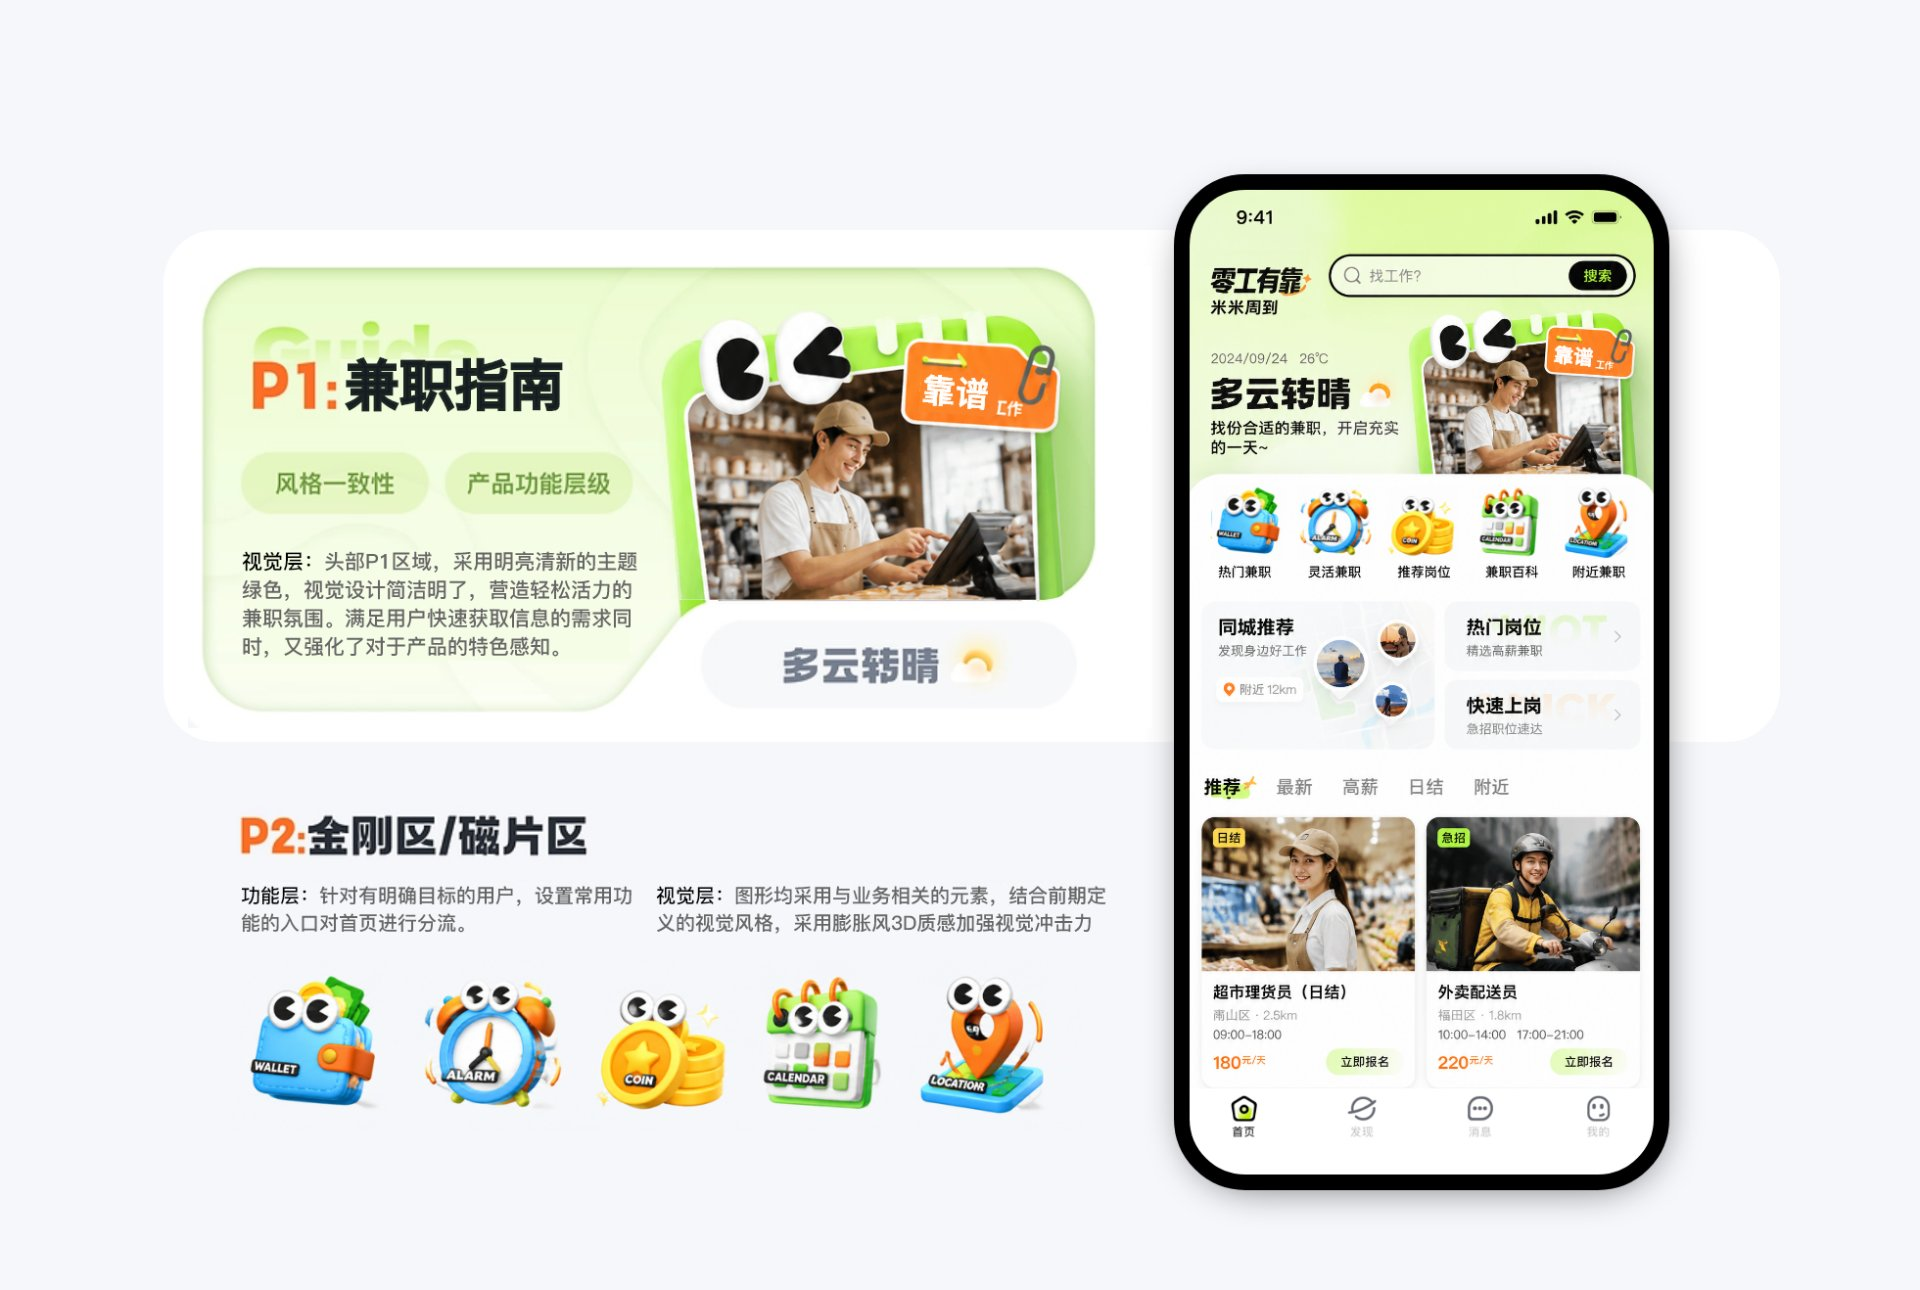
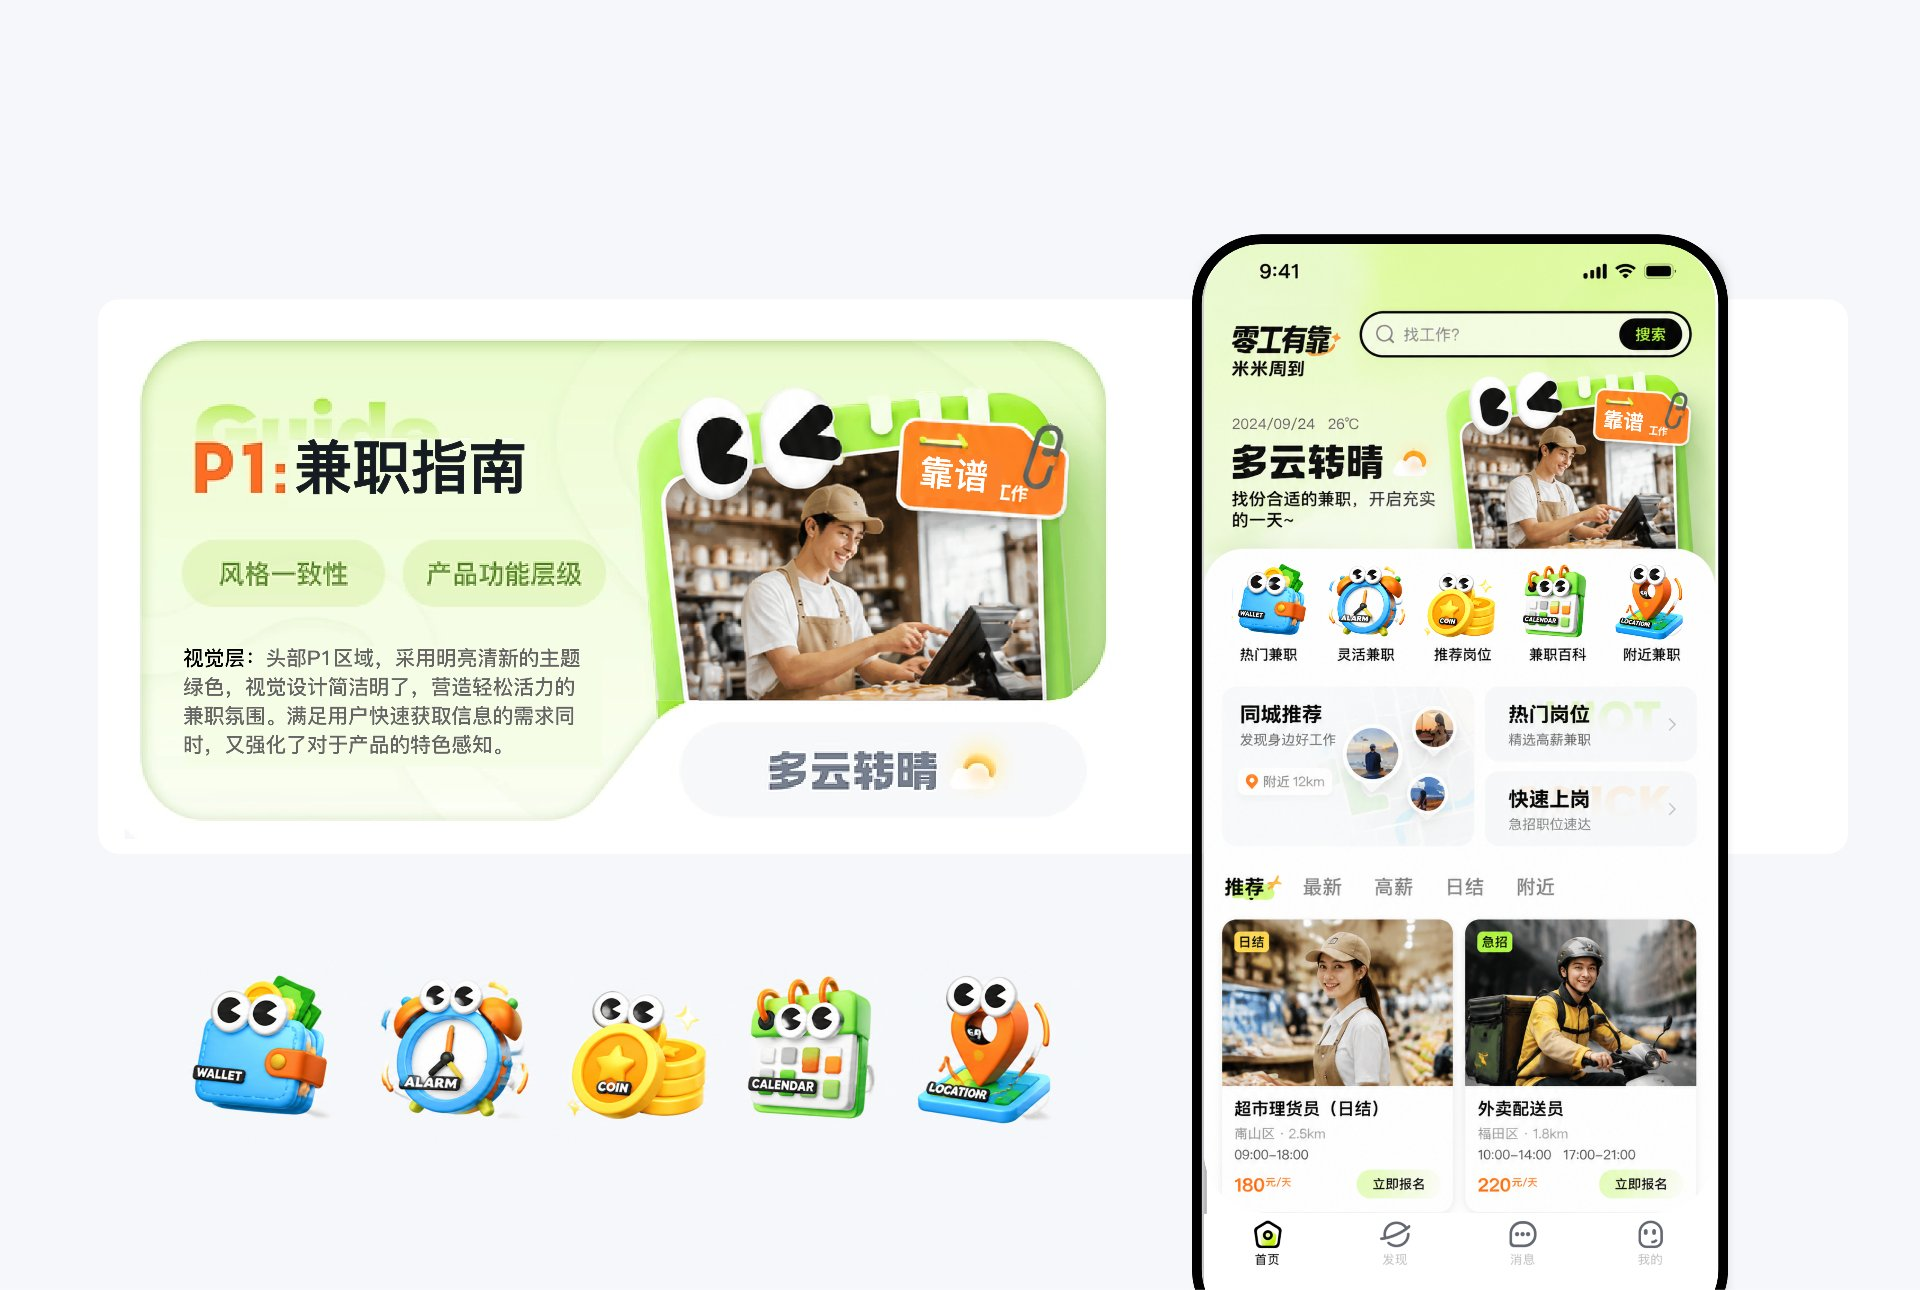
feat: AIGC+零工有靠求职APP二级页面素材全量更新与布局修复
- AIGC二级页面：5张素材更新（ICONS/二级页/运营页/Banner），运营页展示合并模块
- 零工有靠求职APP：4张素材更新，Hero移除重复大图，所有模块统一为标题+文字+大图格式
- 修复图片映射错误，各模块图归位

diff --git a/job-app.html b/job-app.html
@@ -269,11 +269,6 @@
           <dd>iOS / Android<br><span style="color:var(--text-secondary)">Mobile App</span></dd>
         </div>
       </dl>
-
-      <!-- 封面大图 — 设计总览 -->
-      <div class="cs-img-full reveal">
-        <img src="assets/jobapp/case-study.jpg" alt="零工有靠 — 完整 Case Study">
-      </div>
     </div>
   </section>
 
@@ -290,70 +285,51 @@
     </div>
   </section>
 
-  <!-- 首页设计：P1 + P2 -->
+  <!-- 首页设计：P1 + P2 + P3 -->
   <section class="sec" id="home-design">
     <div class="container">
       <div class="sec-head reveal">
         <h2 class="sec-title">首页设计</h2>
       </div>
-
-      <div class="point-cards reveal">
-        <div class="point-card">
-          <div class="point-label">P1 — 兼职指南</div>
-          <h4>视觉层</h4>
-          <p>头部 P1 区域采用<strong>明亮清新的主题绿色</strong>，视觉设计简洁明了。营造轻松活泼的兼职氛围，满足用户快速获取信息的刚需，同时强化了对于产品的特色感知。</p>
-        </div>
-        <div class="point-card">
-          <div class="point-label">P1 — 兼职指南</div>
-          <h4>功能层</h4>
-          <p>风格一致性 + 产品功能层级清晰，让新用户一眼理解核心价值。「多云转晴」的天气隐喻暗示找到好工作的美好预期。</p>
-        </div>
-        <div class="point-card">
-          <div class="point-label">P2 — 金刚区 / 磁片区</div>
-          <h4>功能层</h4>
-          <p>针对有明确目标的用户，设置常用功能的入口对首屏进行分流。<strong>视觉层采用与业务相关的元素图标</strong>，结合前瞻定义的视觉风格，采用<strong>萌系能量 3D 质感加强视觉冲击力</strong>。</p>
-        </div>
+      <div class="cs-text reveal">
+        <p>首页采用<strong>P1 兼职指南 → P2 金刚区/磁片区 → P3 双列 Feed 流推荐</strong>的三层信息架构。头部 P1 区域采用<strong>明亮清新的主题绿色</strong>，视觉设计简洁明了，营造轻松活泼的兼职氛围。「多云转晴」的天气隐喻暗示找到好工作的美好预期。</p>
+        <p>针对有明确目标的用户，P2 设置常用功能入口对首屏进行分流。<strong>视觉层采用与业务相关的萌系能量 3D 质感图标</strong>，结合前瞻定义的视觉风格加强视觉冲击力。P3 双列 Feed 流根据用户偏好进行个性化岗位推荐。</p>
+      </div>
+      <div class="cs-img-full reveal">
+        <img src="assets/jobapp/page-register.jpg" alt="首页设计 — P1兼职指南 + P2金刚区 + P3双列Feed流推荐">
       </div>
     </div>
   </section>
 
-  <!-- 岗位报名 -->
+  <!-- 岗位报名 & 发现岗位 -->
   <section class="sec" id="job-register">
     <div class="container">
       <div class="sec-head reveal">
         <h2 class="sec-title">岗位报名</h2>
       </div>
       <div class="cs-text reveal">
-        <p>基于<strong>LBS 地理位置</strong>的岗位发现流程，用户可通过地图视图直观浏览周边工作机会。三屏交互流程覆盖：<strong>定位 → 浏览附近岗位 → 在线报名</strong>，每一步都经过体验优化，降低用户操作门槛。</p>
+        <p>基于<strong>LBS 地理位置</strong>的岗位发现流程，用户可通过地图视图直观浏览周边工作机会。三屏交互流程覆盖：<strong>发现岗位详情 → 查看岗位信息流 → 填写个人意愿报名</strong>，每一步都经过体验优化，降低用户操作门槛。</p>
       </div>
       <div class="cs-img-full reveal">
-        <img src="assets/jobapp/case-study.jpg" alt="岗位报名 — 地图找岗流程">
+        <img src="assets/jobapp/page-home.jpg" alt="岗位报名 — LBS地图找岗 + 发现岗位BASE + 推荐活动流">
       </div>
     </div>
   </section>
 
-  <!-- 发现岗位 & 签到活动 -->
-  <section class="sec" id="discovery">
+  <!-- 签到活动 -->
+  <section class="sec" id="signin">
     <div class="container">
       <div class="sec-head reveal">
-        <h2 class="sec-title">发现岗位 &amp; 签到活动</h2>
+        <h2 class="sec-title">签到活动</h2>
       </div>
-      <div class="point-cards reveal">
-        <div class="point-card">
-          <div class="point-label">发现岗位</div>
-          <h4>推荐 / 最新 / 高薪 / 日结 / 附近</h4>
-          <p>多维度岗位筛选与分类展示，支持标签切换快速定位目标岗位。卡片式布局突出关键信息（薪资、距离、时间），提升决策效率。</p>
-        </div>
-        <div class="point-card">
-          <div class="point-label">签到活动</div>
-          <h4>签到换购触点定义</h4>
-          <p>通过<strong>每日签到 + 积分兑换</strong>机制提升用户留存与活跃度。活动页面融入品牌 IP 角色，增强趣味性与参与感。</p>
-        </div>
-        <div class="point-card">
-          <div class="point-label">数据埋藏</div>
-          <h4>运营驱动设计</h4>
-          <p>针对不同用户群体（日结/长期/高薪）做差异化内容推荐，结合签到、分享裂变等运营玩法，形成完整的用户增长闭环。</p>
-        </div>
+      <div class="cs-text reveal">
+        <p>签到页是产品中运营属性偏重的一页。元素层作为视觉核心内容的主要载体，直接承接<strong>粗突击主题、吸引用户目光的重任</strong>，风格上与整体页面图标的萌系风格保持一致。</p>
+        <p><strong>P1 积分进度条</strong>：阶梯现金奖励拉动连续签到，分层展示每日收益。<strong>递进式红包进度条</strong>一目了然，红绿色块反差鲜明，标注分值每日奖励，「最高」标签放大收益吸引力。</p>
+        <p><strong>推荐活动 & 奖励兑换</strong>：针对不同用户群体（日结/长期/高薪）做差异化内容推荐，结合签到、分享裂变等运营玩法。「推荐活动」弹窗 + 「奖励兑换」抽奖转盘形成完整的用户增长闭环。</p>
+      </div>
+
+      <div class="cs-img-full reveal">
+        <img src="assets/jobapp/page-signin.jpg" alt="签到活动 — 页面风格定义 + 积分进度条 + 签到领现金 + 奖励兑换">
       </div>
     </div>
   </section>
@@ -365,10 +341,11 @@
         <h2 class="sec-title">IP 角色延展</h2>
       </div>
       <div class="cs-text reveal">
-        <p>围绕「<strong>米米周聊</strong>」品牌 IP 打造完整角色矩阵，每个角色对应一个使用场景或用户状态：<strong>求职宝（找工作）、面试宝（准备中）、兼职宝（接单）、全职宝（入职）、签到宝（打卡）、物流宝（配送）</strong>。统一的 Q 版绿色形象配合差异化动作表情，强化品牌辨识度与情感连接。</p>
+        <p>围绕品牌 IP 打造<strong>完整角色矩阵</strong>，每个角色对应一个使用场景或用户状态：</p>
+        <p><strong>兼职招募、咖啡店员、外卖配送、超市收银</strong>（第一排）对应核心求职场景；<strong>家教辅导、活动协助、宠物照料、仓库打包</strong>（第二排）覆盖生活化灵活用工场景。统一的 Q 版<strong>嫩绿星形头部形象</strong>配合差异化动作表情与道具，强化品牌辨识度与情感连接，让用户产生亲切感与代入感。</p>
       </div>
       <div class="cs-img-full reveal">
-        <img src="assets/jobapp/case-study.jpg" alt="IP 角色延展 — 米米周聊全家族">
+        <img src="assets/jobapp/page-ip.jpg" alt="IP 角色延展 — 米米周聊全家族 8 个角色">
       </div>
     </div>
   </section>

diff --git a/aigc-design.html b/aigc-design.html
@@ -290,55 +290,62 @@
         <h2 class="sec-title">项目介绍</h2>
       </div>
       <div class="cs-text reveal">
-        <p>本项目探索<strong>AIGC（人工智能生成内容）在商业设计中的全链路应用</strong>，从品牌活动视觉策划、IP 形象设计到运营页面搭建，系统性地将 AI 工具融入创意工作流。涵盖雀巢茶萃、微盘、快手、游园集等多个品牌的实际落地项目。</p>
-        <p>通过<strong>Midjourney 图像生成、Stable Diffusion 精细化控制、ComfyUI 工作流自动化</strong>等工具的组合运用，实现了从概念到交付的高效输出，同时保持设计的一致性与品质感。</p>
+        <p>本项目探索<strong>AIGC（人工智能生成内容）在商业设计中的全链路应用</strong>，从品牌活动视觉策划、IP 形象设计、ICON 系统延展到运营页面搭建与 Banner 视觉输出，系统性地将 AI 工具融入创意工作流。</p>
+        <p>通过<strong>LIBLIB AI 制作的 3D 萌系图标</strong>、Midjourney 场景生成、Stable Diffusion 细化控制等工具的组合运用，实现了从概念到交付的高效输出，同时保持设计的一致性与品质感。涵盖雀巢茶萃、NESTEA 节日运营、多品牌 Banner 等实际落地项目。</p>
       </div>
     </div>
   </section>
 
-  <!-- 品牌营销话题 -->
+  <!-- ICONS 设计 -->
+  <section class="sec" id="icons">
+    <div class="container">
+      <div class="sec-head reveal">
+        <h2 class="sec-title">ICON 设计</h2>
+      </div>
+      <div class="cs-text reveal">
+        <p><strong>#ICONS — LIBLIB AI 制作，豆包手动调整</strong></p>
+        <p>使用 AI 辅助工具快速生成多组 3D 质感图标方案，再通过手工精调细节。主图标采用<strong>游戏手柄造型</strong>（蓝白配色 + 可爱表情），搭配一组业务场景小图标（咖啡杯/购物车/放大镜等），整体风格统一为圆润 Q 版 3D 质感，适用于 APP 金刚区、功能入口等场景。</p>
+      </div>
+      <div class="cs-img-full reveal">
+        <img src="assets/aigc/img-icons.jpg" alt="ICON 设计 — LIBLIB AI制作 3D萌系图标集">
+      </div>
+    </div>
+  </section>
+
+  <!-- 品牌营销话题 / 二级页展示 -->
   <section class="sec" id="campaign">
     <div class="container">
       <div class="sec-head reveal">
-        <h2 class="sec-title">品牌营销话题</h2>
+        <h2 class="sec-title">二级页展示</h2>
       </div>
       <div class="cs-text reveal">
-        <p>以<strong>雀巢茶萃「个性茶萃」夏季营销</strong>为核心案例，完整展示从话题策略、IP 角色设定、ICON 延展到二级页视觉的全流程设计。</p>
+        <p>以<strong>雀巢茶萃「个性茶萃」夏季营销</strong>为核心案例，完整展示从话题策略、IP 角色设定到二级页视觉的全流程设计。包含「好『膨』友计划」互动玩法、签到奖励机制、推荐活动流等多屏交互设计。</p>
       </div>
       <div class="cs-img-full reveal">
-        <img src="assets/aigc/aigc-campaign.jpg" alt="品牌营销话题 — NESTEA 雀巢茶萃夏季营销全案">
+        <img src="assets/aigc/img-subpage.jpg" alt="二级页展示 — 雀巢茶萃夏季营销全案">
       </div>
     </div>
   </section>
 
-  <!-- 过暑亲亲 & 页面总汇 -->
-  <section class="sec" id="summary">
-    <div class="container">
-      <div class="sec-head reveal">
-        <h2 class="sec-title">过暑亲亲 · 项目汇总</h2>
-      </div>
-      <div class="cs-img-full reveal">
-        <img src="assets/aigc/aigc-summary.jpg" alt="过暑亲亲开屏页搭建 + 季节性营销案 + 项目页面总汇">
-      </div>
-    </div>
-  </section>
-
-  <!-- 运营页展示 -->
+  <!-- 运营页展示（合并） -->
   <section class="sec" id="ops">
     <div class="container">
       <div class="sec-head reveal">
         <h2 class="sec-title">运营页展示</h2>
       </div>
       <div class="cs-text reveal">
-        <p>多场景运营活动页面合集，覆盖音乐、节日回忆、万圣节狂欢、开学季、租房优惠、游戏抽奖、新教练入驻等多元主题，统一使用 AIGC 工具流快速产出高品质视觉方案。</p>
+        <p>多场景运营活动页面合集，覆盖<strong>在校生租房攻略、让生活浪出花、双十一狂欢、开学季迎新、新学期送美班</strong>等多元化场景——从校园生活到电商大促，从租房优惠到游戏抽奖，展现 AIGC 工作流在快节奏商业环境下的适应力与产出效率。</p>
       </div>
       <div class="cs-img-full reveal">
-        <img src="assets/aigc/aigc-ops.jpg" alt="运营页展示 — 多场景活动页面合集">
+        <img src="assets/aigc/img-more.jpg" alt="运营页展示 — 校园/租房/电商/教育/游戏多场景">
+      </div>
+      <div class="cs-img-full reveal">
+        <img src="assets/aigc/img-operation.jpg" alt="运营页展示 — 新学期/租房季/开学抽奖">
       </div>
     </div>
   </section>
 
-  <!-- BANNER -->
+  <!-- BANNER 合集 -->
   <section class="sec" id="banners">
     <div class="container">
       <div class="sec-head reveal">
@@ -348,22 +355,7 @@
         <p>跨品牌 Banner 设计集合——涵盖<strong>微盘点、快手、游园集、红包礼遇季、美好生活 GO 全球、你好新教练、雀巢茶萃、Merry Christmas、数智革新</strong>等十余个客户项目，展现 AI 辅助下的高效视觉生产能力。</p>
       </div>
       <div class="cs-img-full reveal">
-        <img src="assets/aigc/aigc-banners.jpg" alt="Banner 合集 — 跨品牌多场景视觉设计">
-      </div>
-    </div>
-  </section>
-
-  <!-- IP手绘设计 & 设定创图 -->
-  <section class="sec" id="ip-design">
-    <div class="container">
-      <div class="sec-head reveal">
-        <h2 class="sec-title">IP 手绘设计 & 设定创图</h2>
-      </div>
-      <div class="cs-text reveal">
-        <p><strong>像素风 IP 角色设计</strong>——基于 NESTEA 小场景设定的像素艺术角色形象，含多版本表情延展与材质拓展（贴纸/卡片）。结合 AIGC 工具实现从草图到成品的快速迭代，<strong>5+ 个 IP 角色、7+ 种工种、3 个工作日</strong>完成全部交付物。</p>
-      </div>
-      <div class="cs-img-full reveal">
-        <img src="assets/aigc/aigc-ip-materials.jpg" alt="IP手绘设计 — 像素风角色 + 设定创图 + 材质拓展">
+        <img src="assets/aigc/img-banners.jpg" alt="Banner 合集 — 跨品牌多场景视觉设计">
       </div>
     </div>
   </section>